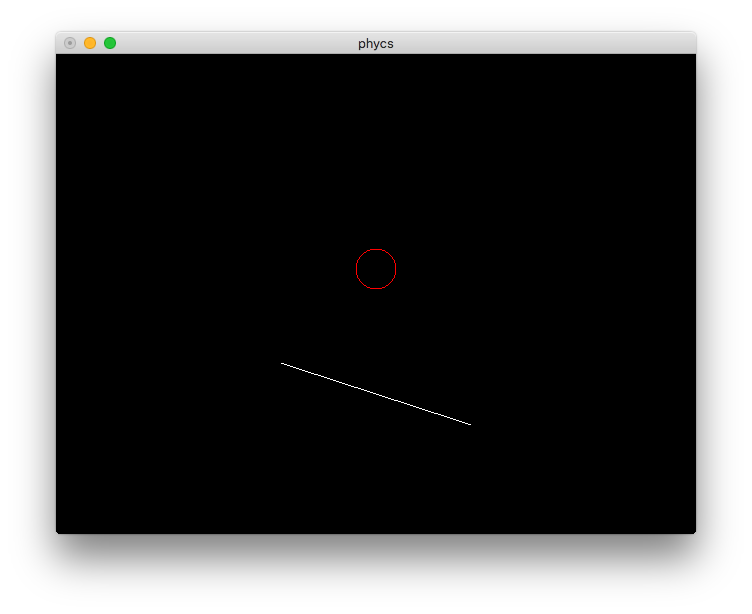
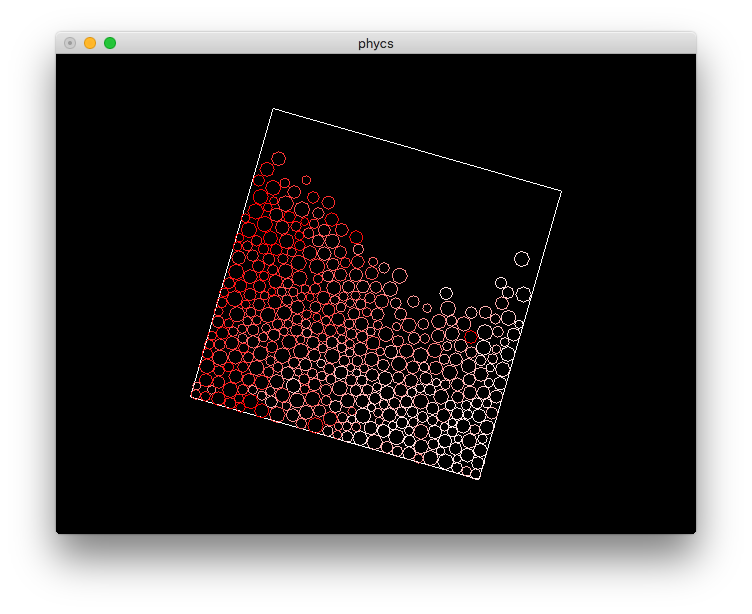
Update readme

Changed region(s): [[0.2447, 0.2476, 0.7035, 0.7736]]

diff --git a/README.md b/README.md
@@ -14,13 +14,22 @@ makeWorld "World" [''Color, ''Physics]
 initialize = do
   writeGlobal (Gravity (V2 0 (-10)))
 
-  let ball = Shape (Circle 0 0.2) defaultProperties {elasticity = 0.8}
-      line = Shape (Segment (V2 (-1) 0) (V2 1 0) 0) defaultProperties {elasticity = 0.8}
+  newEntity ( KinematicBody
+            , AngularVelocity (-pi/6)
+            , hollowBox 30 30 0 defaultProperties )
 
-  newEntity (DynamicBody, Shapes [ball], Position (V2 0 2),    red)
-  newEntity (StaticBody,  Shapes [line], Position (V2 0 (-1)), Angle (-pi/10))
+  replicateM_ 400 $ do
+    x      <- liftIO$ randomRIO (-9,9)
+    y      <- liftIO$ randomRIO (-9,9)
+    radius <- liftIO$ randomRIO (0.4,0.8)
+    let color = (realToFrac x+9)/19
 
-main = simulateWorld (InWindow "phycs" (640,480) (10,10)) 100 initWorld initialize
+    newEntity ( DynamicBody
+              , Shape (Circle 0 radius) defaultProperties {elasticity=0.9}
+              , Position (V2 x y)
+              , makeColor 1 color color 1 )
+
+main = simulateWorld (InWindow "phycs" (640,480) (10,10)) 10 initWorld initialize
 ```
 
 ![Screenshot](https://raw.githubusercontent.com/jonascarpay/phycs/master/img.png)
